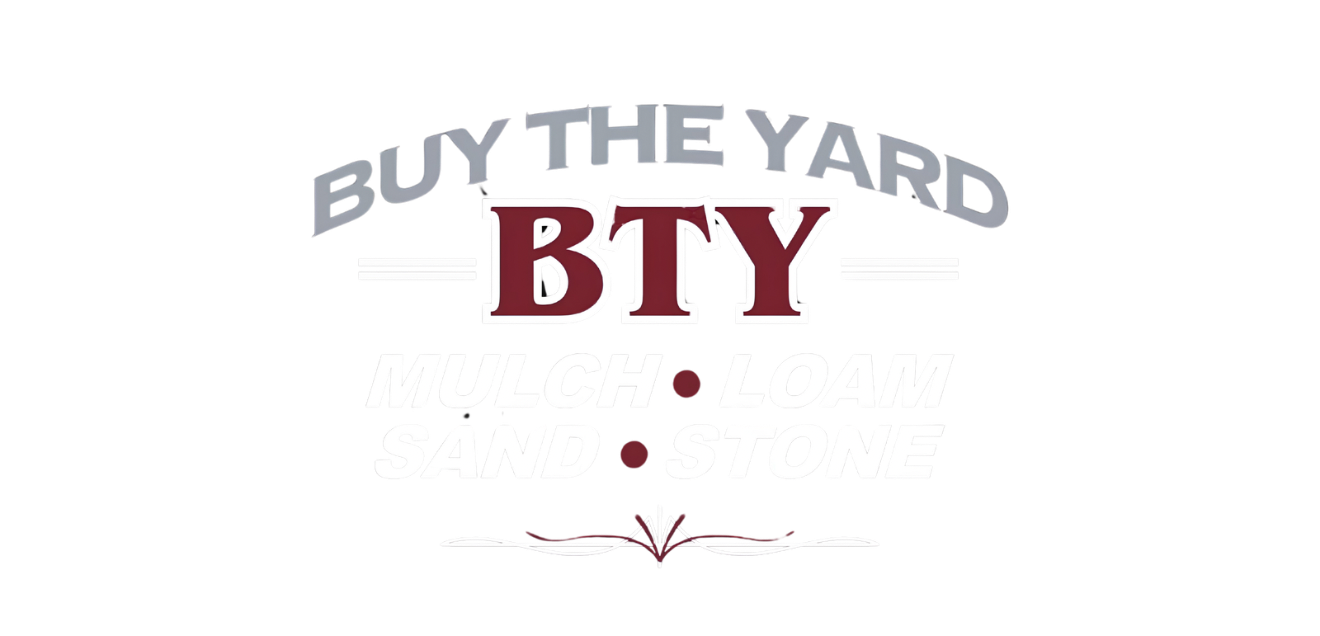
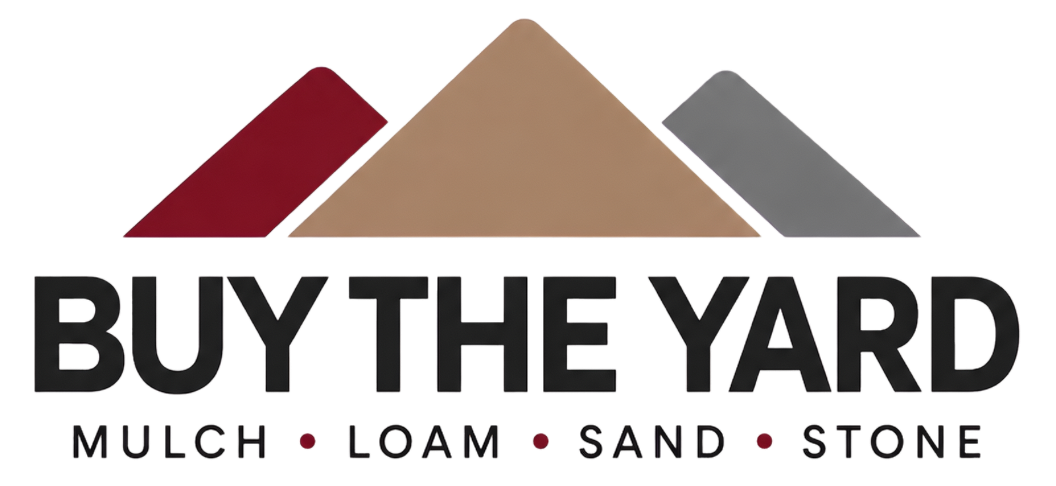
Changes

diff --git a/.lovable/plan.md b/.lovable/plan.md
@@ -1,46 +1,11 @@
-## Audit pass: headlines ≤2 lines, subtext 2–3 lines (at 440px)
+## Replace sitewide logo
 
-This is a mobile-first sweep. At 440px the usable column is ~392px, so big uppercase display headlines wrap aggressively. I'll screenshot each marketing route, flag every headline >2 lines and every subtext at 1 or 4+ lines, and fix by **shortening copy** or **tightening `max-w-[Xch]`** — never by changing `text-*` size.
+Overwrite `src/assets/brandmark.png` with the uploaded image. All five existing references (`SiteHeader`, `SiteFooter`, `__root.tsx` favicon/OG, `scripts/og.mjs`, `PHOTO_CREDITS.md`) import from that single path, so no code changes are needed — they'll pick up the new asset automatically.
 
-### Pages in scope
-`/`, `/products`, `/about`, `/contact`, `/delivery`, `/service-area`, `/quote`, `/privacy`, plus `SiteHeader`/`SiteFooter` headlines.
-
-### Likely violators I already see from a code scan
-(Each will be re-verified visually before editing.)
-
-**Heroes (likely 3+ lines on mobile):**
-- `index.tsx` L291 — H1 `text-5xl md:text-7xl` (~16 ch/line on mobile). If copy is the typical 2–3 punchy lines, fine; if longer, shorten.
-- `about.tsx` L37, `contact.tsx` L71, `delivery.tsx` L44, `service-area.tsx` L74 — all `text-6xl md:text-8xl` (~13 ch/line). `max-w-[14–18ch]` already constrains them but copy may push to 3 lines.
-- `products.tsx` L69, `quote.tsx` L119/L592 — `text-6xl/5xl md:text-7xl` with `max-w-[18ch]`.
-
-**Section H2s with `max-w-[Xch]`:**
-- `index.tsx` L392/483/532/588/667/794 — all `text-5xl md:text-6xl` with `max-w-[16–20ch]`. At mobile ~16 ch/line, a 20ch headline = 2 lines (OK); a 32ch headline = 3 lines (violation).
-
-**Subtext (likely <2 lines or >3 lines):**
-- Hero subcopy paragraphs sitting next to the H1 in each page hero.
-- Stats strip on `index.tsx` (single-line labels — OK as labels, not subtext).
-- Footer review card subcopy (just fixed — 3 lines on mobile, OK).
-
-### Approach
-
-1. **Screenshot** each page at 440px (and ≥768px to confirm no desktop regression).
-2. For each section, count headline and subtext lines.
-3. **Fix priority:**
-   1. Trim copy (preferred — punchier marketing copy is usually better anyway).
-   2. Tighten or loosen `max-w-[Xch]` to force the desired break.
-   3. Only as last resort, restructure layout (e.g. stack vs. row) — but no font-size changes.
-4. Re-screenshot to confirm 1–2 line headlines and 2–3 line subtexts.
-
-### Copy edits
-
-If a fix requires changing user-facing copy (e.g. shortening a tagline), I'll make the minimum edit and note each one in the closing summary so you can review wording. I won't invent new brand claims or change meaning — only tighten.
+### Steps
+1. Copy `user-uploads://Untitled_design-2.png` → `src/assets/brandmark.png` (overwrite).
+2. Verify header/footer render the new mark at 440px and desktop.
 
 ### Out of scope
-
-- Form field labels, accordion triggers, footer column headers (`Visit`, `Hours`, `Site`), nav links, button labels, eyebrow tags, stats numbers, blockquote attributions, product card titles — these are single-purpose labels, not headlines/subtext.
-- No font-size, color, or layout-system changes.
-- Desktop-only line count tuning — mobile is the binding constraint; desktop will pass automatically.
-
-### Verification
-
-Final closing summary will list each page with before→after line counts for every edited headline/subtext, plus any copy I changed.
+- Regenerating OG share images (`public/og/*.jpg` via `scripts/og.mjs`) — say the word if you want me to re-run that script so social previews use the new mark.
+- Favicon files in `public/` (if any separate from brandmark).
